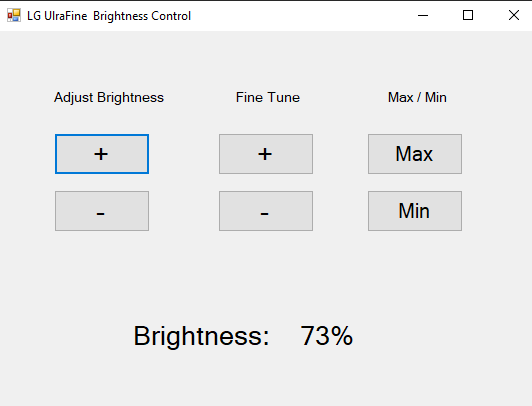
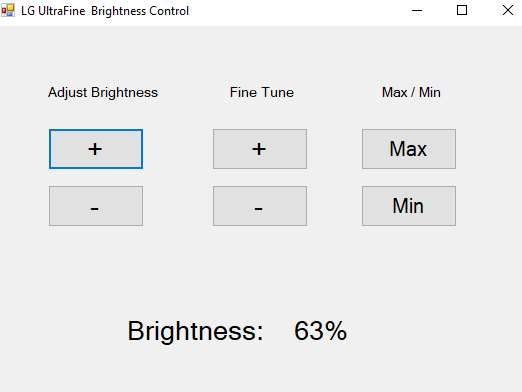
fixed typo

diff --git a/mainForm.h b/mainForm.h
@@ -234,7 +234,7 @@ namespace LGUltrafineBrightness {
 			this->Controls->Add(this->adjbrt_lbl);
 			this->Controls->Add(this->current_brightness_lbl);
 			this->Name = L"mainForm";
-			this->Text = L"LG UlraFine  Brightness Control";
+			this->Text = L"LG UltraFine  Brightness Control";
 			this->ResumeLayout(false);
 			this->PerformLayout();
 
